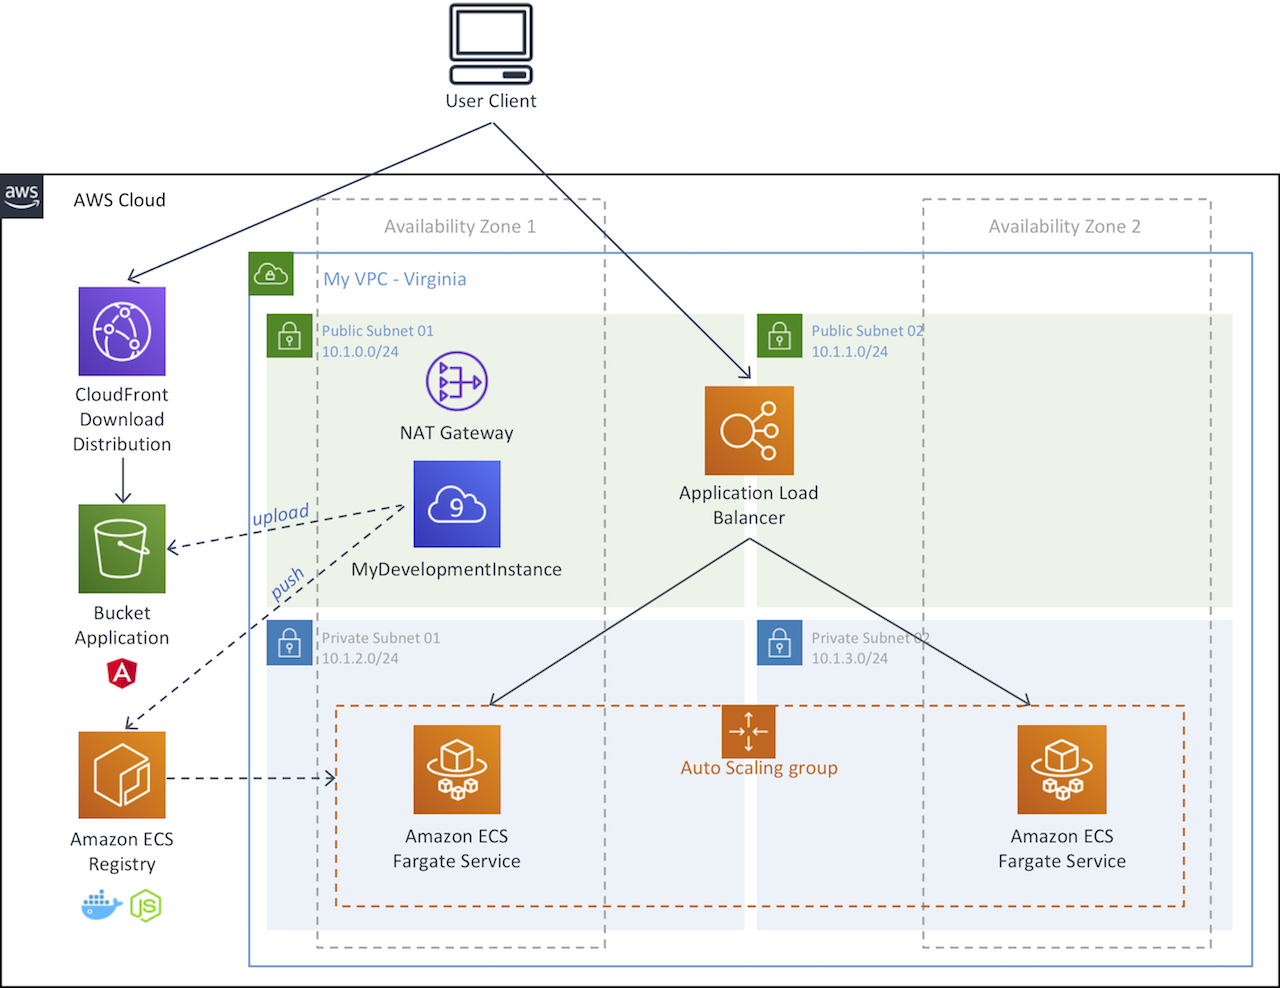
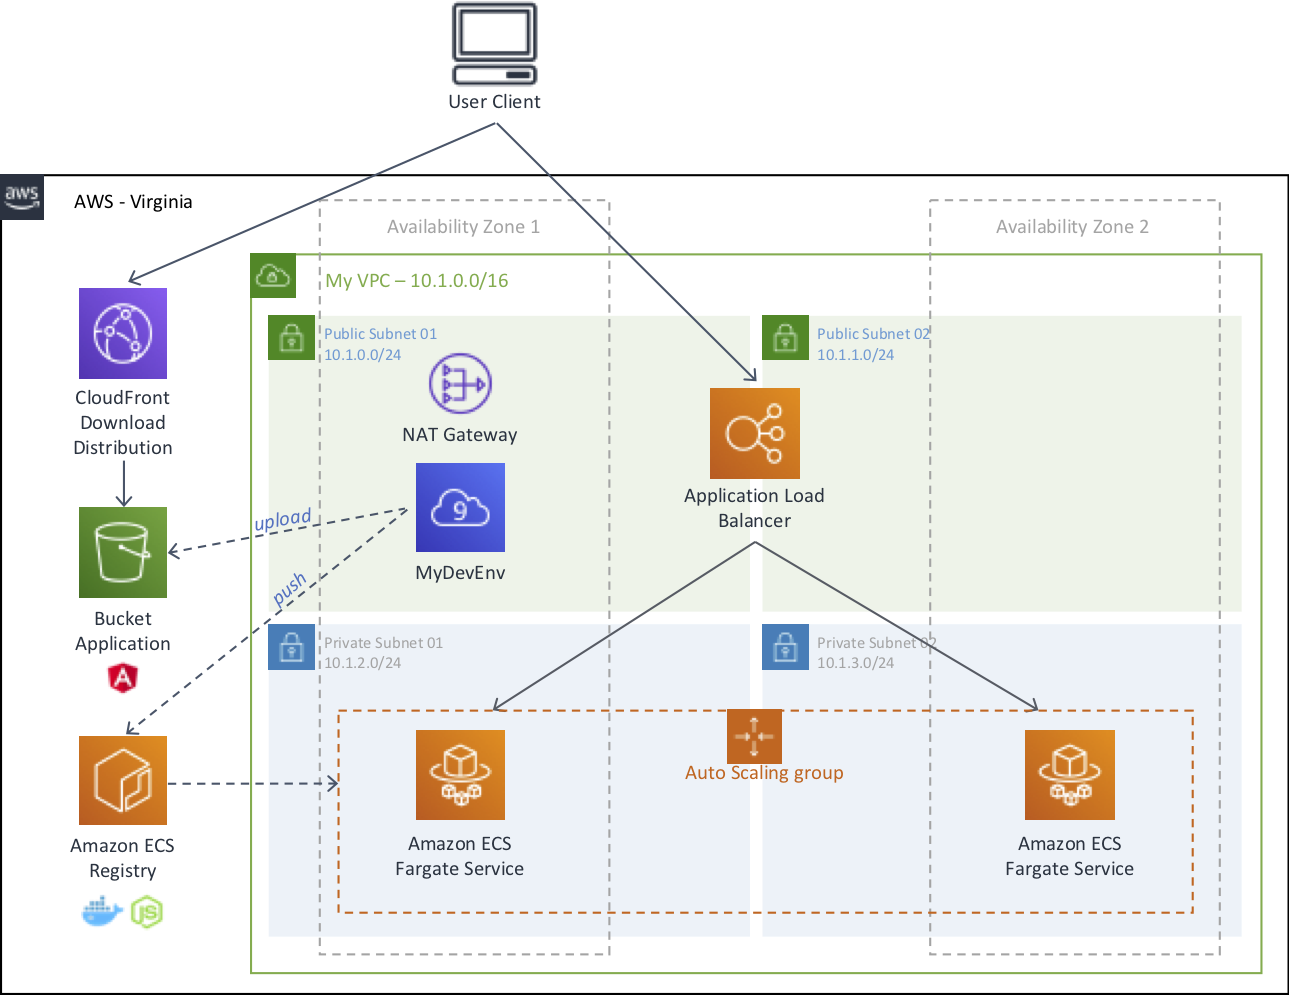
New Images

diff --git a/docs/deploy-backedn-with-ecs.md b/docs/deploy-backedn-with-ecs.md
@@ -20,15 +20,17 @@ npm install
 
 ![Repository name](images/repository-name.png)
 
-**Note:** Copy the **URI** for the backend repository, you will use it later.
+1.5\. From the **Repositories** list, copy the **URI** for the **backend** repository, you will use it later.
 
-1.5\. Click on the repository name **backend** and then click on **View push commands**.
+![Repositories list](images/ecs-repositories-list.png)
 
-1.6\. Go back to your Cloud9 environment in your backend folder and execute the 5 commands of **Push commands for backend** (macOS/Linux).
+1.6\. Click on the repository name **backend** and then click on **View push commands**.
+
+1.7\. Go back to your Cloud9 environment in your backend folder and execute the 5 commands of **Push commands for backend** (macOS/Linux).
 
 ![Repository Push Commands](images/repository-push-commands.png)
 
-1.7\. After pushing to AWS repository you will see the following image.
+1.7\. After pushing to AWS repository you will see the following image in https://console.aws.amazon.com/ecr/repositories/backend/.
 
 ![Image](images/ecr-image.png)
 
@@ -75,7 +77,7 @@ npm install
 3.6\. Click on **Add container** and complete as follow and choose **Add**:
 
 * **``Container Name``**: **``backend``**
-* **``Image``**: paste the URI repository that you copied earlier in step 1.4.
+* **``Image``**: paste the URI repository that you copied earlier in step 1.5.
 * **``Port mappings``**: **``3000``** 
 
 ![Task Container](images/ecs-task-container.png)
@@ -116,6 +118,8 @@ npm install
 
 5.5\. For **Cluster name** type `backend-cluster` and click on **Create**.
 
+![Create Cluster](images/ecs-create-cluster-name.png)
+
 5.6\. Click on **View Cluster**.
 
 5.7\. In the **Services** sections click on **Create**.
@@ -140,6 +144,8 @@ npm install
 * **``Subnets``**: Select `Private Subnet 01` and `Private Subnet 02`
 * **``Auto-assign public IP``**: `DISABLED`
 
+![Create Cluster](images/ecs-service-vpc.png)
+
 5.11\. For **``Security Groups``** click on **Edit**.
 
 5.12\. Complete as follows and click on **Save**:
@@ -155,6 +161,8 @@ npm install
 
 5.15\. Click on **Add to load balancer**.
 
+![Service ALB](images/ecs-alb-select.png)
+
 5.16\. For **Target group name** select **``backend``**.
 
 5.17\. Uncheck the **Enable service discovery integration** and click on **Next step**.
@@ -163,7 +171,7 @@ npm install
 
 5.18\. Complete the **Set Auto Scaling (optional)** page as follows and click on **Next step**.
 
-* **``Service Auto Scaling``**: **``Configure Service Auto Scaling to adjust your service’s desired count``**
+* **``Service Auto Scaling``**: Select **Configure Service Auto Scaling to adjust your service’s desired count**
 * **``Minimum number of tasks``**: **``2``**
 * **``Desired number of tasks``**: **``2``**
 * **``Maximum number of tasks``**: **``6``**
@@ -176,12 +184,18 @@ npm install
 
 5.19\. Click on **Create Service** and click on **View Service** once the creation is finished.
 
-5.20\. Open the Amazon EC2 console at https://console.aws.amazon.com/ec2/.
+5.20\. Wait a few seconds, you will see two tasks in running status.
 
-5.21\. In the navigation pane, under **LOAD BALANCING**, choose **Load Balancers**.
+![ECS Tasks](images/ecs-tasks.png)
 
-5.22\. Select the **backend** balancer, in the **Description** section copy the **DNS Name** to test in your bworser, you will see the code for the AWS Region.
+5.21\. Open the Amazon EC2 console at https://console.aws.amazon.com/ec2/.
 
-5.23\. Test the DNS Name with `/messages` to see the messages.
+5.22\. In the navigation pane, under **LOAD BALANCING**, choose **Load Balancers**.
+
+5.23\. Select the **backend** balancer, in the **Description** section copy the **DNS Name** to test in your bworser, you will see the code for the AWS Region.
+
+![ALB List](images/alb-list.png)
+
+5.24\. Test the DNS Name with `/messages` to see the messages.
 
 ![ECS ALB](images/ecs-alb.png)

diff --git a/docs/deploy-frontend-with-s3-and-cloudfront.md b/docs/deploy-frontend-with-s3-and-cloudfront.md
@@ -1,4 +1,4 @@
-# Deploy an Angular frontend with Amazon S3 and Amazon Cloudfront
+# Deploy an Angular frontend with Amazon S3 and Amazon CloudFront
 
 ## 1. Upload Angular application to Amazon S3
 
@@ -65,7 +65,7 @@ aws s3 sync dist/frontend/ s3://<your-bucket-name>/
 * **Origin Domain Name**: Select your bucket name created.
 * **Restrict Bucket Access**: **``Yes``**
 * **Origin Access Identity**: **``Create a New Identity``**
-* **Grant Read Permissions on Bucke**: **``Yes, Update Bucket Policy``**
+* **Grant Read Permissions on Bucket**: **``Yes, Update Bucket Policy``**
 
 ![CloudFront Origin Settings](images/cf-origin-settings.png)
 
@@ -73,7 +73,7 @@ aws s3 sync dist/frontend/ s3://<your-bucket-name>/
 
 ![CloudFront Index](images/cf-index.png)
 
-2.6\. Click on **Create Distribution** and wait some minutes to apply the changes.
+2.6\. Click on **Create Distribution** and wait a few minutes to apply the changes.
 
 2.7\. Go back to https://console.aws.amazon.com/cloudfront/, once the distribution **Status** changes from **In Progress** to **Deployed**, copy the **Domain name** of your CloudFront distribution to test in your browser, you will see the message **Welcome to frontend!**.
 
@@ -106,7 +106,7 @@ aws s3 sync dist/frontend/ s3://<your-bucket-name>/
 
 ![CloudFront Custom Errors List](images/cf-customs.png)
 
-2.14\. Go back to https://console.aws.amazon.com/cloudfront/ and wait some minutes to apply the changes, once the distribution **Status** changes from **In Progress** to **Deployed** you can continue.
+2.14\. Go back to https://console.aws.amazon.com/cloudfront/ and wait a few minutes to apply the changes, once the distribution **Status** changes from **In Progress** to **Deployed** you can continue.
 
 ![CloudFront Deployed](images/cf-deployed.png)
 
@@ -114,4 +114,5 @@ aws s3 sync dist/frontend/ s3://<your-bucket-name>/
 
 ![Angular Application](images/angular.png)
 
-#### Congratulations, now you have an Angular Application stored on Amazon S3 and a Nodejs backend using containers with Amazon ECS.
+!!! done
+    **Now you have an Angular Application stored on Amazon S3 and a Nodejs backend using containers with Amazon ECS.**

diff --git a/docs/create-vpc-alb.md b/docs/create-vpc-alb.md
@@ -102,7 +102,7 @@
 
 ![ALB Select](images/alb-select.png)
 
-3.5\. Complete the **Configure Load Balancer** page as follows:
+3.5\. Complete the **Step 1: Configure Load Balancer** page as follows and choose **Next: Configure Security Settings**:
 
 * **``Name``**: `backend`
 * **``Scheme``**: **``internet-facing``**
@@ -111,10 +111,22 @@
 * **``VPC``**: **``My VPC``**
 * **``Availability Zones``**: Select the check box for the Availability Zones to enable for your load balancer. For **``us-east-1a``** select the **``Public Subnet 01``** and for **``us-east-1b``** select **``Public Subnet 02``**.
 
-3.6\. Choose **Next: Configure Security Settings** and choose **Next: Configure Security Groups**.
+![ALB Configuration](images/alb-configuration.png)
 
-3.7\. Select **Create a new security group**, for the Security group name type `backend-alb` and choose **Next: Configure Routing**.
+3.6\. In the **Step 2: Configure Security Settings** section, choose **Next: Configure Security Groups**.
 
-3.8\. In the **Configure Routing** section, for **Name** type `backend`, for Target type, choose to register your targets with an **IP** address and choose **Next: Register Targets**.
+3.7\. In the **Step 3: Configure Security Groups** section, select **Create a new security group**, for the **Security group name** and **Description** type `backend-alb` and choose **Next: Configure Routing**.
 
-3.9\. Choose **Next: Review**, click on **Create** and **Close**.
+![ALB SG](images/alb-sg.png)
+
+3.8\. In the **Step 4: Configure Routing** section, for **Name** type `backend`, for **Target type** choose to register your targets with an **IP** address and choose **Next: Register Targets**.
+
+![ALB Configure Routing](images/alb-configure-routing.png)
+
+3.9\. In the **Step 5: Register Targets** section, choose **Next: Review**, 
+
+3.10\. Review the details and click on **Create** and **Close**.
+
+![ALB Created](images/alb-created.png)
+
+![ALB List](images/alb-list.png)

diff --git a/docs/prepare-your-development-environment.md b/docs/prepare-your-development-environment.md
@@ -8,7 +8,7 @@
 
 ![Cloud9 Create environment](images/cloud9-create.png)
 
-1.3\. For the **Name** type `MyDevelopmentInstance`, and choose **Next step**.
+1.3\. For the **Name** type `MyDevEnv`, and choose **Next step**.
 
 ![Cloud9 name environment](images/cloud9-name.png)
 
@@ -16,13 +16,13 @@
 
 1.5\. Click on **Create environment**.
 
-1.6\. Wait some seconds until your development environment is ready, you will see the following screen.
+1.6\. Wait a few seconds until your development environment is ready, you will see the following screen.
 
 ![Cloud9 Env](images/cloud9-env.png)
 
 ## 2. Install requirements
 
-2.1\. Inside the Cloud9 environment, in the **bash** terminal, clone the reposiotry.
+2.1\. Inside the Cloud9 environment, in the **bash** terminal, execute the following command to clone the project repository.
 
 ``` bash
 git clone https://github.com/aurbac/nodejs-back-and-angular-front.git
@@ -40,7 +40,7 @@ nvm i v8
 npm install -g @angular/cli
 ```
 
-2.4\. Ensure service linked roles exist for Load Balancers and ECS:
+2.4\. The execution of the following commands make sure that service linked roles exist for Load Balancers and ECS, if they do not exist they are created.
 
 ``` bash
 aws iam get-role --role-name "AWSServiceRoleForElasticLoadBalancing" || aws iam create-service-linked-role --aws-service-name "elasticloadbalancing.amazonaws.com"

diff --git a/README.md b/README.md
@@ -24,4 +24,4 @@ You must complete the following modules in **US East (N. Virginia)** region in o
 
 3\. [Deploy a Node.js backend with Amazon ECS](docs/deploy-backedn-with-ecs.md)
 
-4\. [Deploy an Angular frontend with Amazon S3 and Amazon Cloudfront](docs/deploy-frontend-with-s3-and-cloudfront.md)
+4\. [Deploy an Angular frontend with Amazon S3 and Amazon CloudFront](docs/deploy-frontend-with-s3-and-cloudfront.md)
